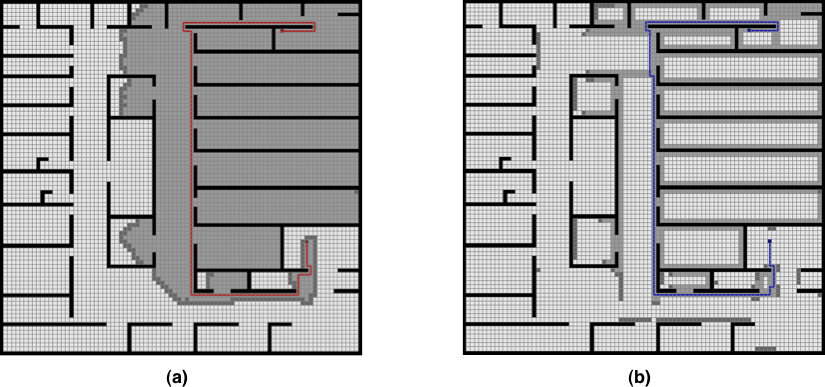
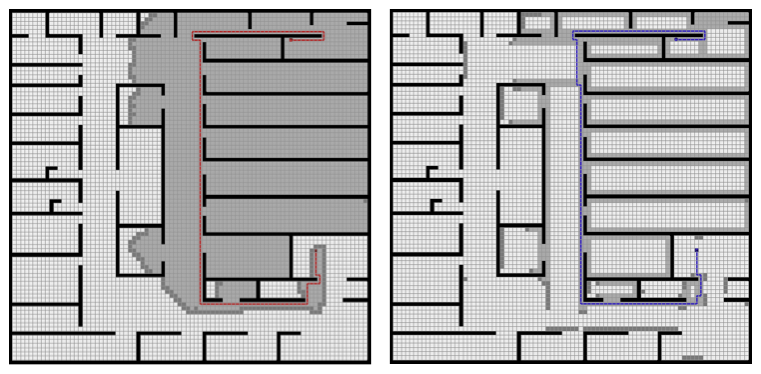
Compressed things a little. Fixed a few minor things in Results section.

diff --git a/papers/opthpa/search.tex b/papers/opthpa/search.tex
@@ -71,18 +71,16 @@ on the perimeter of each room.
 Thus the length of $\pi'(s, g)$ is equal to the length of $\pi'(s,g)$.
 \end{proof}
 
-\begin{figure*}[t]
+\begin{figure}[t]
 %	\vspace{-4pt}
-       \begin{center}
-           \includegraphics[scale=0.50, trim = 10mm 10mm 10mm 0mm]{diagrams/oha_contrast.png}
-       \end{center}
-%	\vspace{-3pt}
-       \caption{\textbf{(a)} A* solving a problem on an unmodified ($86\times88$) game map. 
-Expanded nodes are marked light grey while nodes at the frontier of the search are dark grey.
-\textbf{(b)} A* solving the same problem using our modified grid map. A number of large rooms have been identified (not
-all shown) and the algorithm only considers nodes along their perimeter.}
+\centering
+	    \includegraphics[width=0.95\columnwidth, trim = 10mm 10mm 10mm 0mm]{diagrams/oha_contrast.png}
+		\caption{On the left we show A* solving a problem on an unmodified ($86\times88$) grid map. 
+		Expanded nodes are marked light grey while nodes at the frontier of the search are dark grey.
+		On the right is A* solving the same problem using our modified grid map. A number of large rooms have been identified (not
+		all shown) and the algorithm only considers nodes along their perimeter.}
 	\label{fig-contrast}
-\end{figure*}
+\end{figure}
 
 In Figure \ref{fig-contrast} we highlight the effectiveness of our symmetry breaking technique using
 a map that has characteristics typical of what one might expect in a modern role-playing game \footnote{

diff --git a/papers/opthpa/graphsize.tex b/papers/opthpa/graphsize.tex
@@ -1,23 +1,23 @@
 % latex table generated in R 2.10.1 by xtable 1.5-6 package
 % Tue Jan 19 16:24:03 2010
-\begin{table}
-  \caption{Average search space size of A* and OHA*.}
+\begin{table}[b]
+  \caption{Average Map Size: Original vs. Modified}
   \label{table-graphsize}
   \centering
-  \begin{tabular}{lcccc}
+  \begin{tabular}{lccccc}
    \hline
-  \multirow{2}{*}{Map} & \multicolumn{2}{c}{A*} & \multicolumn{2}{c}{OHA*} \\
+  \multirow{2}{*}{Map} & \multicolumn{2}{c}{Original} &     & \multicolumn{2}{c}{Modified} \\
 	\cline{2-3}
-	\cline{4-5}
-	& Nodes & Edges & Nodes & Edges \\
+	\cline{5-6}
+	& Nodes & Edges &  & Nodes & Edges \\
 \hline
-BG All &  4469 & 16420 & 2949 &  4655 \\
-R0 & 6392 & 22674 & 2476 & 2889 \\
-R10 & 5765 & 18491 & 4975 & 7049 \\
-R20 & 5148 & 14693  & 4904 & 6556 \\ 
-R30 & 4535 & 11401 & 4386 & 5409 \\
-R40 & 3857 & 8248 & 3688 & 4055 \\
-R50 & 3216 & 5754 & 2956 & 2908 \\ 
+BG All &  4469 & 16420 & & 2949 &  4655 \\
+R0 & 6392 & 22674 & &  2476 & 2889 \\
+R10 & 5765 & 18491 & & 4975 & 7049 \\
+R20 & 5148 & 14693  & & 4904 & 6556 \\ 
+R30 & 4535 & 11401 &  & 4386 & 5409 \\
+R40 & 3857 & 8248 & & 3688 & 4055 \\
+R50 & 3216 & 5754 & & 2956 & 2908 \\ 
    \hline
 \end{tabular}
 \end{table}

diff --git a/papers/opthpa/setup.tex b/papers/opthpa/setup.tex
@@ -5,14 +5,15 @@ popular roleplaying game \emph{Baldur's Gate 2}.
 These maps range in size from 50x50 to 320x320 and are a commonly used benchmark 
 that often appears in the literature 
 \cite{botea04,bjornsson05,bjornsson06,sturtevant05,harabor08}.
+Figure \ref{fig-bgmap} shows a typical example.
 %We believe these maps are sufficiently representative of scenarios typical to modern video games. 
-\begin{figure}[t]
-       \begin{center}
-                       \includegraphics[scale=0.50, trim = 10mm 10mm 10mm 0mm]{diagrams/bgmap.png}
-       \end{center}
-       \caption{An example map from BioWare's \emph{Baldur's Gate 2}}
-       \label{fig-bgmap}
-\end{figure}
+ \begin{figure}[b]
+        \begin{center}
+                        \includegraphics[width=0.8\columnwidth, trim = 10mm 10mm 10mm 0mm]{diagrams/bgmap.png}
+        \end{center}
+        \caption{An example map from BioWare's \emph{Baldur's Gate 2}}
+        \label{fig-bgmap}
+ \end{figure}
 \par
 We also evaluate A* on the demo map from Figure \ref{fig-contrast},
  which is distributed with the University of Alberta's freely available pathfinding library 

diff --git a/papers/opthpa/clustering.tex b/papers/opthpa/clustering.tex
@@ -9,7 +9,9 @@ condition is reached.
 %This technique is originally described in \cite{harabor08} where clearances are used to
 %facilitate pathfinding for multi-size agents navigating across grid maps.
 In order to compute clearances we employ the technique described in \cite{harabor08}.
-However, for reasons of brevity, we will omit a description of that algorithm.
+The algorithm can be summarised as follows:
+For each tile on the map, compute a maximal size square bounding box that contains no obstacles.
+The length of the bounding box becomes the clearance value associated with the tile.
 %\input alg_clearance
 \par
 Once clearance values are computed for each tile on the map we apply the following

diff --git a/papers/opthpa/article.tex b/papers/opthpa/article.tex
@@ -19,6 +19,7 @@
 
 \renewcommand{\dblfloatpagefraction}{0.9}
 \newcommand{\figref}[1]{\figurename~\ref{#1}}
+\sloppy
 
 \begin{document}
 
